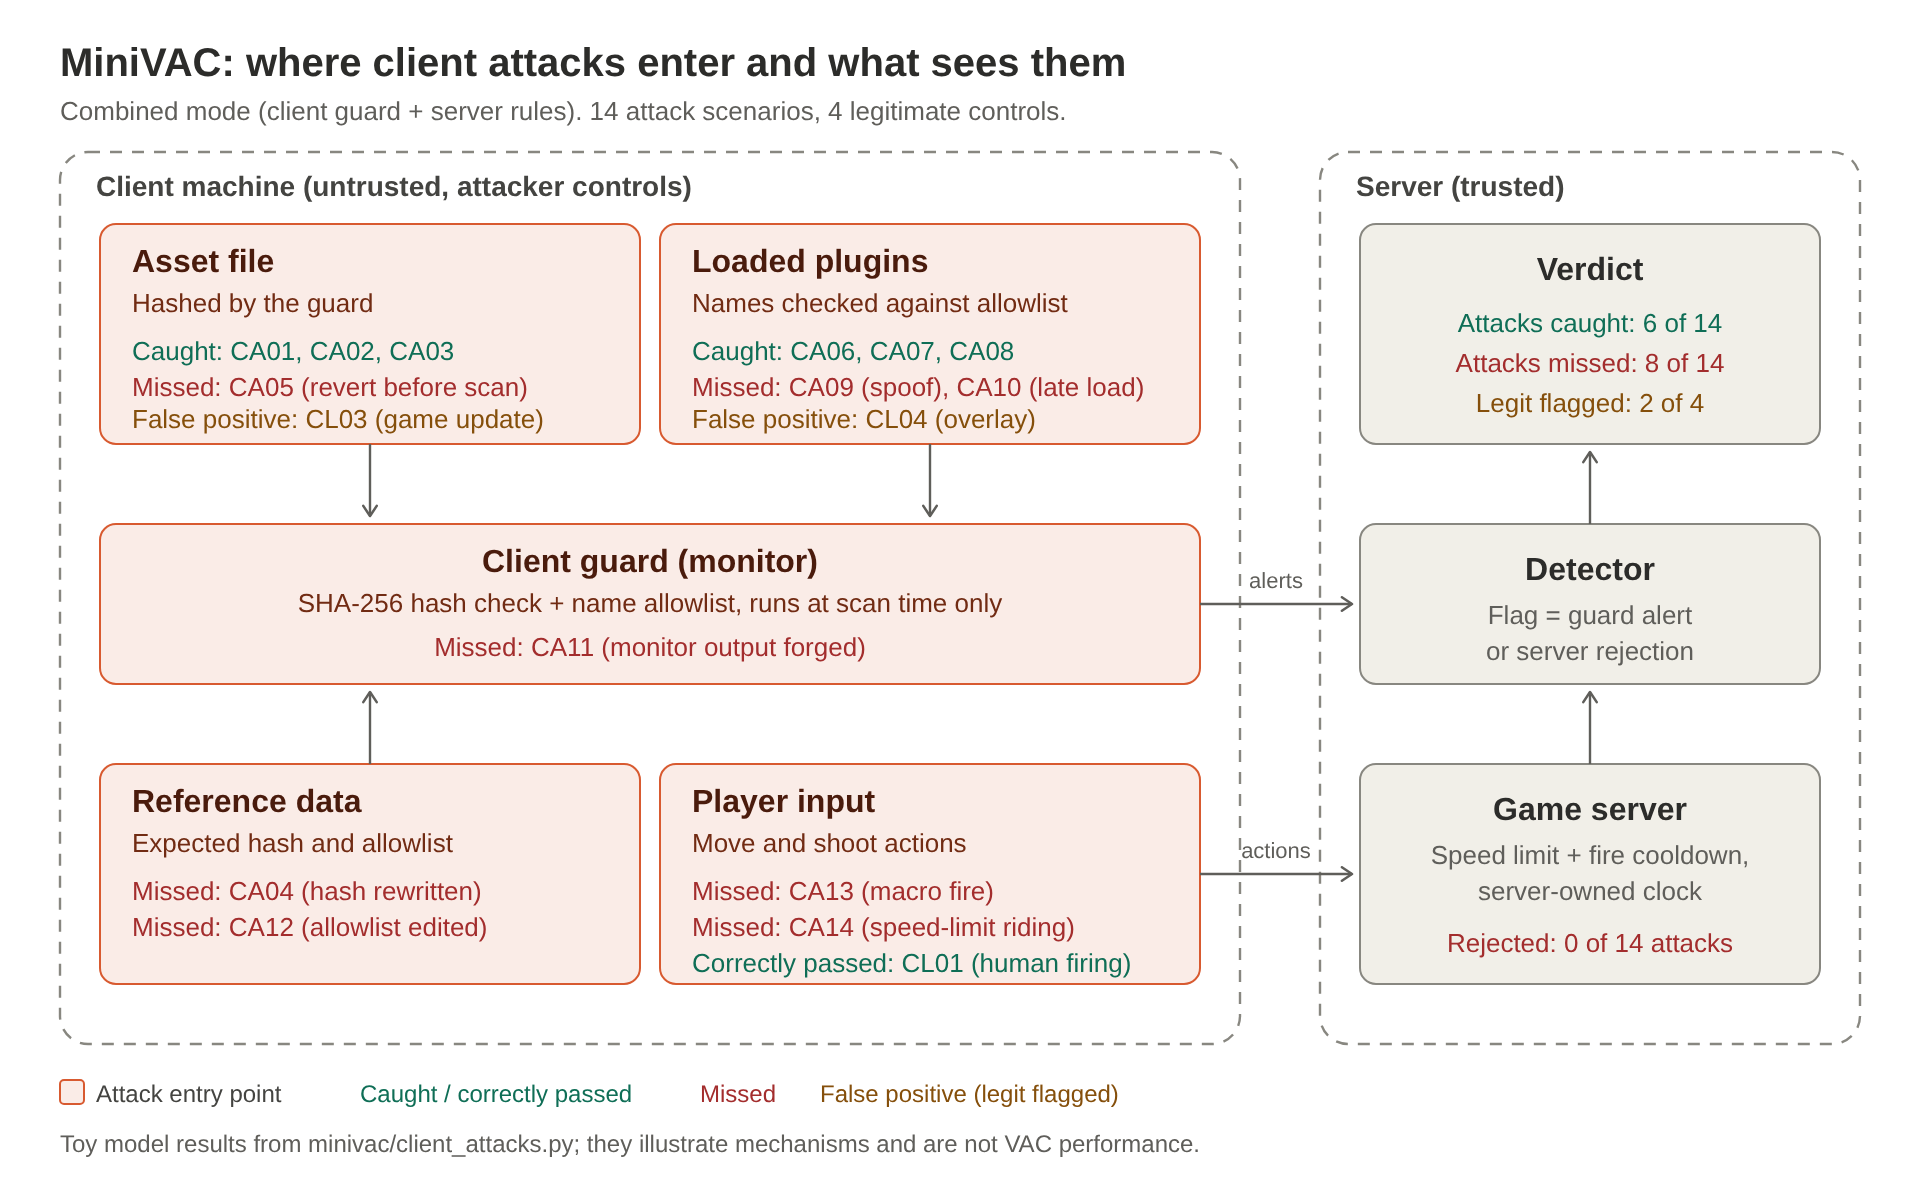
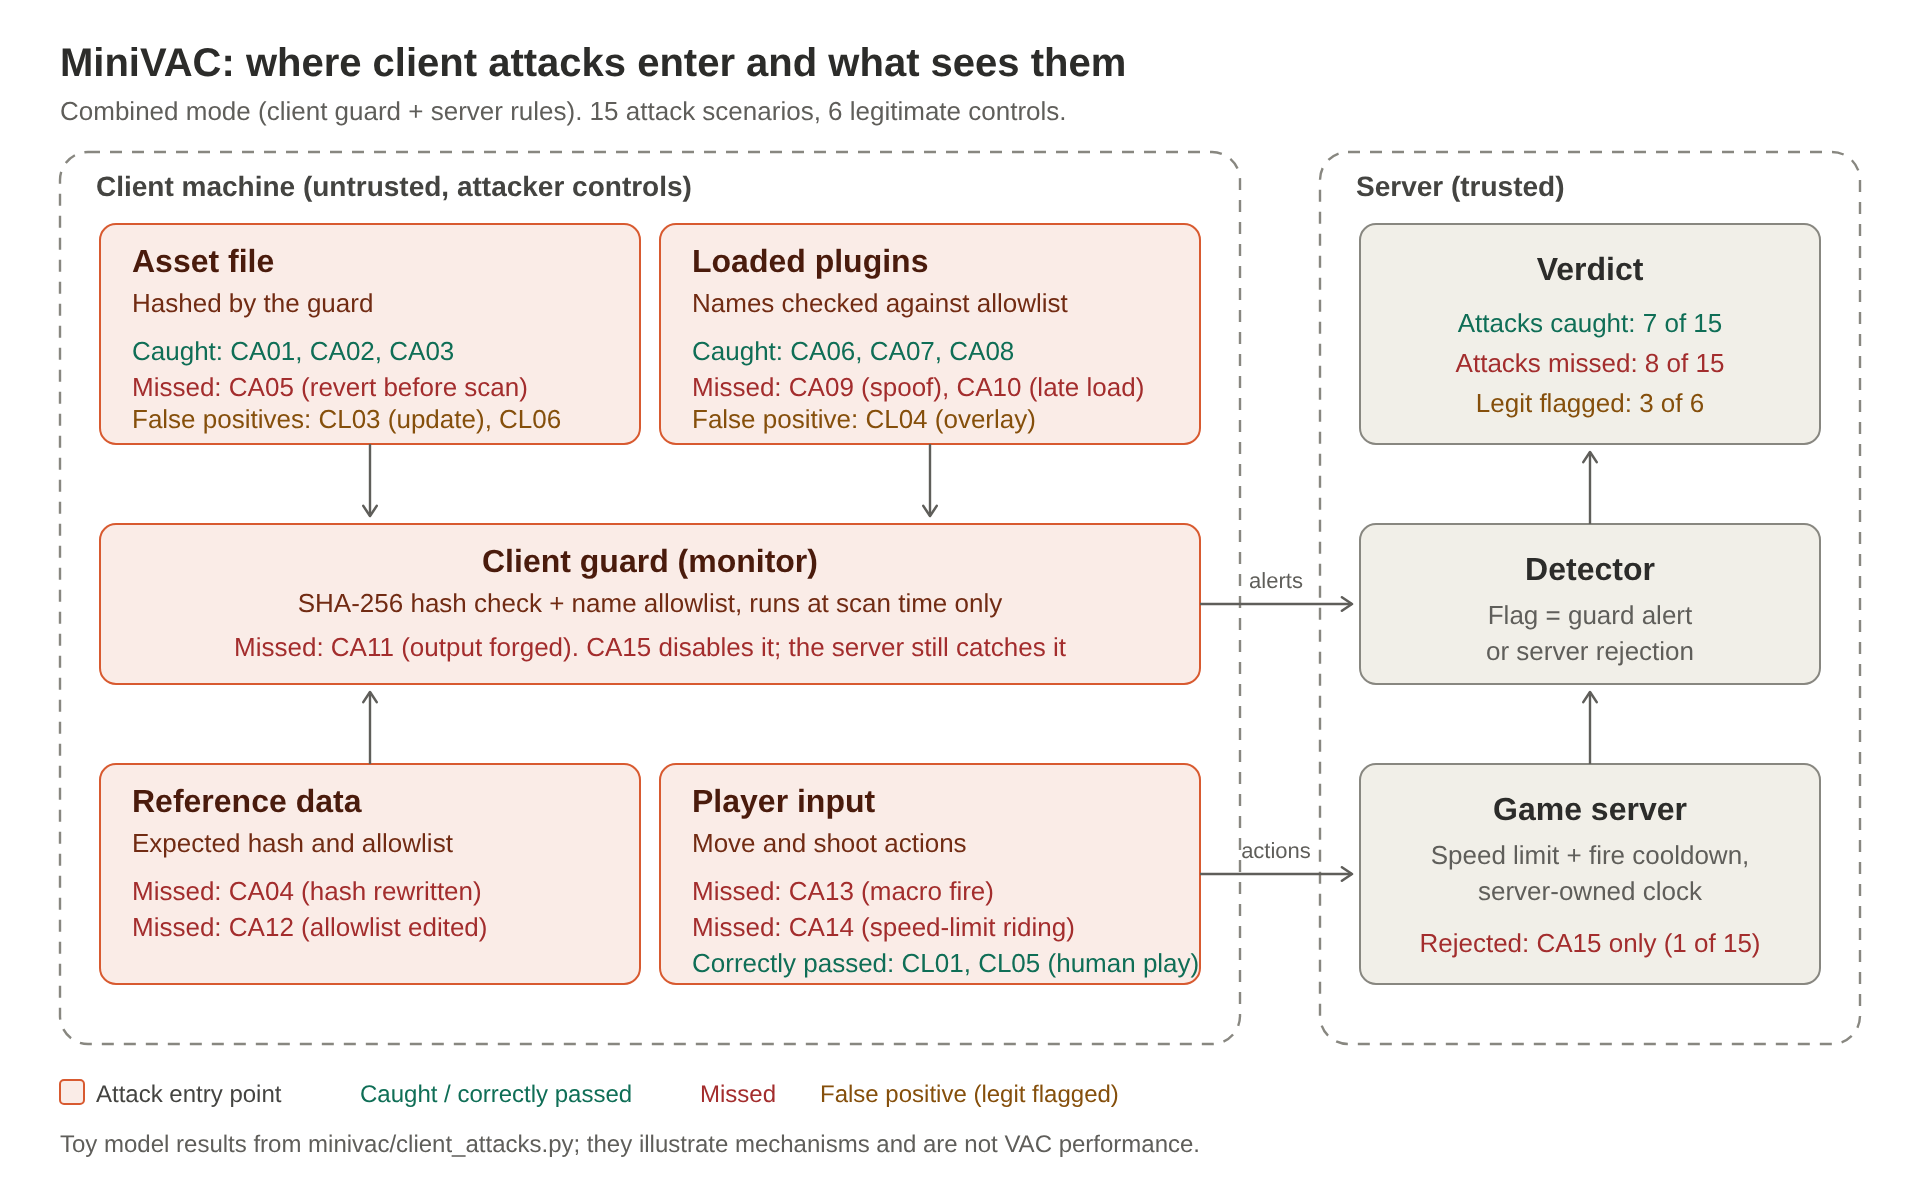
Add CA15, CL05 and CL06 client attack scenarios
- CA15 monitor_disabled_plus_teleport: client monitor silenced, then an
  illegal 20-unit move; the server rejects it (speed_violation)
- CL05 legit_human_movement: varying speeds under the limit, contrast
  case for CA14
- CL06 legit_missing_asset: legitimately missing asset, flagged like
  CA03 (false positive)
- Tests updated (17 total), results CSV, attack log (entry 5) and
  figure regenerated
- docs/figures/api_flow.png/.svg: API flow figure (attack log entry 6)

Combined mode: 7 of 15 attacks caught, 3 of 6 legitimate controls
flagged. Midterm version; no defense code changed.

diff --git a/minivac/client_attacks.py b/minivac/client_attacks.py
@@ -158,6 +158,26 @@ def _third_party_overlay(env):
     env.scan(); _play(env)
 
 
+# ---- client tamper that also produces an illegal action ------------------------
+def _disabled_monitor_teleport(env):
+    env.asset.write_text("Modified test asset\n", encoding="utf8")
+    env.guard.active = False                     # silence the client monitor
+    env.scan()
+    env.act("move", 20.0)                        # effect of the cheat reaches the server
+
+# ---- more legitimate controls --------------------------------------------------
+def _human_movement(env):
+    for gap, dx in ((0.2, 0.3), (0.15, 0.6), (0.3, 1.1), (0.25, 0.9),
+                    (0.1, 0.35), (0.35, 1.4), (0.2, 0.5), (0.18, 0.7)):
+        env.clock.advance(gap)
+        env.act("move", dx)                      # varying speed, always under the limit
+    env.scan()
+
+def _missing_asset_legit(env):
+    env.asset.unlink()                           # incomplete install or antivirus quarantine
+    env.scan(); _play(env)
+
+
 T, F = True, False
 SCENARIOS: list[ClientScenario] = [
     ClientScenario("CA01", "asset_append_byte", "asset_tampering", T,
@@ -216,6 +236,10 @@ SCENARIOS: list[ClientScenario] = [
         "100 moves, each exactly at the speed limit.",
         "A client-side script rides the server's limit. No single action breaks a rule.",
         _max_speed_moves, (F, F, F)),
+    ClientScenario("CA15", "monitor_disabled_plus_teleport", "illegal_action_effect", T,
+        "Disable the monitor and tamper, then make a 20-unit move.",
+        "The client side is silenced, but the cheat's effect is an action no legitimate client could send, so the server rejects it regardless of the client.",
+        _disabled_monitor_teleport, (F, T, T)),
     ClientScenario("CL01", "legit_human_firing", "legit_control", F,
         "8 shots with irregular gaps above the cooldown.",
         "Control: ordinary play, and the contrast case for CA13's perfect regularity.",
@@ -232,6 +256,14 @@ SCENARIOS: list[ClientScenario] = [
         "A harmless overlay plugin that is not on the allowlist.",
         "Control that exposes a false positive: the allowlist cannot tell a benign tool from a cheat.",
         _third_party_overlay, (T, F, T)),
+    ClientScenario("CL05", "legit_human_movement", "legit_control", F,
+        "8 moves at varying speeds, always under the limit.",
+        "Control: ordinary movement, and the contrast case for CA14's exact speed-limit riding.",
+        _human_movement, (F, F, F)),
+    ClientScenario("CL06", "legit_missing_asset", "legit_control", F,
+        "Asset file missing because of an incomplete install or antivirus quarantine.",
+        "Control that exposes a false positive: the guard cannot tell a missing file from CA03's deliberate deletion.",
+        _missing_asset_legit, (T, F, T)),
 ]
 BY_ID = {s.id: s for s in SCENARIOS}
 

diff --git a/tests/test_client_attacks.py b/tests/test_client_attacks.py
@@ -51,11 +51,23 @@ class FindingTests(unittest.TestCase):
 
     def test_legit_controls_expose_false_positives(self):
         rows = evaluate_client_attacks()
-        self.assertEqual(metrics(rows["client_only"])["FP"], 2)
+        self.assertEqual(metrics(rows["client_only"])["FP"], 3)
         self.assertEqual(metrics(rows["server_only"])["FP"], 0)
         flagged_legit = {r["id"] for r in rows["combined"]
                          if not r["policy_violation"] and r["detected"]}
-        self.assertEqual(flagged_legit, {"CL03", "CL04"})
+        self.assertEqual(flagged_legit, {"CL03", "CL04", "CL06"})
+
+    def test_server_catches_client_attack_once_it_breaks_a_rule(self):
+        sc = BY_ID["CA15"]
+        self.assertFalse(run_scenario(sc, True, False)["detected"])    # monitor disabled
+        row = run_scenario(sc, False, True)
+        self.assertTrue(row["detected"])
+        self.assertEqual(row["server_rejections"], ["speed_violation"])
+
+    def test_human_movement_is_accepted(self):
+        row = run_scenario(BY_ID["CL05"], True, True)
+        self.assertFalse(row["detected"])
+        self.assertEqual(row["actions"], 8)
 
     def test_human_firing_is_irregular_but_accepted(self):
         row = run_scenario(BY_ID["CL01"], True, True)

diff --git a/docs/CLIENT_ATTACK_LOG.md b/docs/CLIENT_ATTACK_LOG.md
@@ -1,7 +1,7 @@
 # Client Attack Log (MiniVAC)
 
 **Owner:** Andrew (client attack) · **Team:** Team VAC (Team 21) · **Started:** 2026-11-15
-**Status:** 14 attack scenarios and 4 legitimate controls implemented, tested and documented. Backlog in section 7.
+**Status:** 15 attack scenarios and 6 legitimate controls implemented, tested and documented. Backlog in section 7.
 
 Update this file whenever something is tried, tested or implemented. Section 4 is append-only; everything else can be edited. The results table in section 3 comes from the code, so regenerate it rather than editing by hand.
 
@@ -43,10 +43,13 @@ Ground truth and detection per mode. "Client only" runs the toy monitor with per
 | CA12 | allowlist_edited | violation | The allowlist is client-side data the attacker can edit, so the plugin becomes 'approved'. | not flagged | not flagged | not flagged |
 | CA13 | macro_fire_on_cooldown_edge | violation | A client-side script fires as fast as the server allows. Every request is individually legal, so rule checks cannot object. | not flagged | not flagged | not flagged |
 | CA14 | movement_at_speed_limit | violation | A client-side script rides the server's limit. No single action breaks a rule. | not flagged | not flagged | not flagged |
+| CA15 | monitor_disabled_plus_teleport | violation | The client side is silenced, but the cheat's effect is an action no legitimate client could send, so the server rejects it regardless of the client. | not flagged | flagged | flagged |
 | CL01 | legit_human_firing | legit | Control: ordinary play, and the contrast case for CA13's perfect regularity. | not flagged | not flagged | not flagged |
 | CL02 | legit_approved_plugins | legit | Control: allowed plugins should never be flagged. | not flagged | not flagged | not flagged |
 | CL03 | legit_game_update_stale_baseline | legit | Control that exposes a false positive: the hash check cannot tell a patch from tampering. | flagged | not flagged | flagged |
 | CL04 | legit_third_party_overlay | legit | Control that exposes a false positive: the allowlist cannot tell a benign tool from a cheat. | flagged | not flagged | flagged |
+| CL05 | legit_human_movement | legit | Control: ordinary movement, and the contrast case for CA14's exact speed-limit riding. | not flagged | not flagged | not flagged |
+| CL06 | legit_missing_asset | legit | Control that exposes a false positive: the guard cannot tell a missing file from CA03's deliberate deletion. | flagged | not flagged | flagged |
 
 ### Summary by category (combined mode)
 
@@ -58,10 +61,11 @@ Ground truth and detection per mode. "Client only" runs the toy monitor with per
 | Monitor tampering | CA04, CA11, CA12 | 0 of 3 |
 | Timing evasion | CA05, CA10 | 0 of 2 |
 | In-bounds input automation | CA13, CA14 | 0 of 2 |
-| **All attacks** | 14 | **6 of 14 (TPR 43%)** |
-| Legitimate controls flagged | CL01–CL04 | 2 of 4 (FPR 50%) |
+| Client tamper + illegal action | CA15 | 1 of 1 (server rejects) |
+| **All attacks** | 15 | **7 of 15 (TPR 47%)** |
+| Legitimate controls flagged | CL01–CL06 | 3 of 6 (FPR 50%) |
 
-Server only caught 0 of 14: none of these attacks produce an action the server rules reject, which is the point of the design.
+Server only caught 1 of 15: only CA15 produces an action the server rules reject. The other 14 stay inside the rules, which is the point of their design.
 
 ## 4. Experiment log (append new entries at the bottom)
 
@@ -91,19 +95,29 @@ Tried candidate attacks directly against `ClientGuard` and `GameServer` to decid
 - Over HTTP with the real clock, 10 shots sent 0.31 s apart were all accepted: the CA13 macro-fire result holds outside the fake clock too.
 - Gap: the API exposes only the server. The client guard has no network endpoint, so asset, plugin and monitor attacks cannot be sent over HTTP, and no client report crosses the network. A client that reports its scan results to the server would be needed to demonstrate CA11-style forging over the wire.
 
+### 2026-11-15, entry 5: three scenarios added before the midterm freeze
+- Added CA15 (monitor disabled plus a 20-unit move), CL05 (human movement at varying speeds under the limit) and CL06 (asset missing for a legitimate reason).
+- Why: with 14 attacks the server caught 0, which could suggest it adds nothing. CA15 shows the server rejects a client attack once its effect breaks a rule, regardless of the client. CL05 gives CA14 a human contrast case, as CL01 does for CA13. CL06 is the legitimate twin of CA03 and shows the same check flagging both.
+- Result: 17 tests pass (7 original, 10 client-attack). Combined mode: TPR 47% (7 of 15), FPR 50% (3 of 6). Server only: 1 of 15. Figure regenerated.
+- This is the version to present at the midterm; no defense code changed.
+
+### 2026-11-15, entry 6: API flow figure for the midterm
+- Added `docs/figures/api_flow.png` (and `.svg`): the client sends JSON to `POST /action`, the server runs request-shape, action, speed-limit and cooldown checks on its own clock, then accepts or rejects. The figure also shows that the client guard has no endpoint.
+- Every result on the figure comes from the HTTP check in entry 4; no code changed.
+
 ## 5. Key findings (for the report and slides)
 
 1. **The client cannot vouch for itself.** Rewriting the baseline hash (CA04), forging the monitor's output (CA11) and editing the allowlist (CA12) each defeat client checks completely, and the server cannot see them either.
 2. **Point-in-time checks leave gaps.** Reverting a change before the next scan (CA05) or loading a plugin after the only scan (CA10) leaves the monitor with nothing to report.
 3. **Name-based trust is weak.** An allowlist checks what a plugin calls itself, so a plugin named `hud` passes (CA09). Near-miss names are caught, but only because matching is exact.
-4. **Rule checks cannot catch automation that stays in bounds.** Scripted firing and movement at the exact limits (CA13, CA14) pass every server rule, which is the toy-model analog of the "humanized" behavior that motivates statistical detection (e.g. XGuardian). CL01 provides the human contrast case for any future timing-based detector.
-5. **Client-side defenses create false positives.** Both controls CL03 and CL04 are flagged, giving a nonzero FPR for the first time and a concrete example of the detection vs. false-positive tradeoff.
-6. **Defenses complement each other.** Client checks catch the naive tampering the server cannot see; the server catches illegal actions the client cannot report. Neither covers the blind spots above.
+4. **Rule checks cannot catch automation that stays in bounds.** Scripted firing and movement at the exact limits (CA13, CA14) pass every server rule, which is the toy-model analog of the "humanized" behavior that motivates statistical detection (e.g. XGuardian). CL01 and CL05 provide the human contrast cases for any future timing- or speed-based detector.
+5. **Client-side defenses create false positives.** Three controls (CL03, CL04, CL06) are flagged, each by the same check that catches an attack (CA01–CA03, CA06–CA08, CA03). Lowering false positives by loosening those checks would lower detection too.
+6. **Defenses complement each other.** Client checks catch the naive tampering the server cannot see. The server catches a client attack once its effect breaks a rule, even with the monitor disabled (CA15). Neither covers the blind spots above.
 
 ## 6. Limitations and threats to validity
 
 - Toy 1D game, deterministic fake clock, no latency or jitter, no randomness, so repeated runs give identical results.
-- The scenario mix drives the headline numbers. The 80% TPR in the original suite and 43% here are **not comparable**; both reflect the scenarios we chose, and the contrast shows how sensitive the metric is to that choice.
+- The scenario mix drives the headline numbers. The 80% TPR in the original suite and 47% here are **not comparable**; both reflect the scenarios we chose, and the contrast shows how sensitive the metric is to that choice.
 - Combined mode ORs client alerts with server rejections. The harness does not model the network channel that would carry client reports, so forging is simulated by changing the monitor's output (CA11).
 - Labels are policy violations we assigned. CA13 and CA14 are labeled violations because they represent automation, even though no server rule is broken.
 - Sample sizes are tiny; treat the tables as illustrations of mechanisms, not statistics.
@@ -125,12 +139,12 @@ Tried candidate attacks directly against `ClientGuard` and `GameServer` to decid
 ```bash
 python run_client_attacks.py            # prints results, writes client_attack_results.csv
 python run_client_attacks.py --markdown # regenerates the table in section 3
-python -m unittest discover -s tests -v # 15 tests
+python -m unittest discover -s tests -v # 17 tests
 ```
 
 ## 9. Material for the midterm slides
 
 - **Slide idea 1: how client attacks work.** The four levers from section 2, one line each.
 - **Slide idea 2: results by category.** The summary table in section 3.
-- **Slide idea 3: takeaway.** Client checks catch naive tampering (6 of 6) and miss everything the client controls or that stays in bounds (0 of 8); legit changes cause false positives (2 of 4).
+- **Slide idea 3: takeaway.** Client checks catch naive tampering (6 of 6) and miss everything the client controls or that stays in bounds (0 of 8). The server catches a client attack only once it produces an illegal action (CA15). Legit cases are flagged 3 of 6 times.
 - **Speaker note:** state clearly that this is a toy model and the numbers show mechanisms, not VAC performance.
